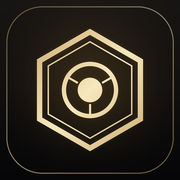
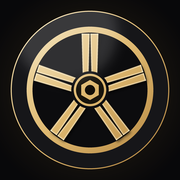
Widok 360° auta z kropkami (klatki z wideo), panel elementu, nowa ikona (felga)
Claude-Session: https://claude.ai/code/session_0152NjmYxNg8rmsFfDkmLGNo

diff --git a/js/spin.js b/js/spin.js
@@ -1,0 +1,121 @@
+// Widok 360°: klatki obrotu auta + kropki przypięte do elementów (interpolowane między klatkami kluczowymi).
+const N = 81;
+const K = (o) => Object.entries(o).map(([k, v]) => [+k, v[0], v[1]]);
+export const SPINS = {
+  'bmw-e53': {
+    dir: 'img/spin/', n: N, ext: 'webp', ratio: 1000 / 563, start: 12,
+    dots: [
+      { id: 'dfL', zone: 'door_front', k: K({ 0: [.73, .39], 4: [.72, .40], 8: [.69, .40], 12: [.65, .40], 16: [.59, .41], 20: [.52, .41], 24: [.43, .41], 28: [.36, .41], 32: [.31, .41] }) },
+      { id: 'drL', zone: 'door_rear', k: K({ 0: [.84, .37], 4: [.84, .37], 8: [.84, .38], 12: [.82, .38], 16: [.79, .38], 20: [.73, .385], 24: [.63, .39], 28: [.545, .39], 32: [.43, .395] }) },
+      { id: 'dfR', zone: 'door_front', k: K({ 48: [.64, .40], 52: [.59, .40], 56: [.515, .40], 60: [.445, .40], 64: [.385, .40], 68: [.345, .40], 72: [.32, .395] }) },
+      { id: 'drR', zone: 'door_rear', k: K({ 48: [.51, .39], 52: [.42, .39], 56: [.33, .385], 60: [.27, .38], 64: [.25, .376], 68: [.255, .37], 72: [.275, .37] }) },
+      { id: 'eng', zone: 'engine', k: K({ 52: [.85, .38], 56: [.85, .40], 60: [.78, .36], 64: [.70, .37], 68: [.72, .37], 72: [.60, .365], 76: [.51, .365], 80: [.50, .36], 81: [.38, .40], 85: [.38, .40], 89: [.30, .37], 93: [.25, .38], 97: [.20, .35] }) },
+      { id: 'whL', zone: 'wheels', k: K({ 0: [.52, .67], 4: [.48, .68], 8: [.41, .72], 12: [.32, .73], 16: [.23, .70], 20: [.13, .735], 24: [.12, .68] }) },
+      { id: 'whR', zone: 'wheels', k: K({ 52: [.86, .66], 56: [.86, .68], 60: [.77, .72], 64: [.665, .71], 68: [.555, .71], 72: [.44, .68] }) },
+      { id: 'tail', zone: 'tail', k: K({ 24: [.88, .44], 28: [.84, .42], 32: [.74, .43], 36: [.62, .44], 40: [.46, .44], 44: [.31, .44], 48: [.19, .44], 52: [.10, .43] }) }
+    ]
+  }
+};
+
+// pozycja kropki w klatce f (float, 0..N); null gdy niewidoczna. Zwraca {x,y,a} (a = przezroczystość 0..1)
+function place(dot, f) {
+  for (const off of [0, N]) {
+    const g = f + off, k = dot.k;
+    if (g < k[0][0] || g > k[k.length - 1][0]) continue;
+    let i = 0; while (i < k.length - 2 && g > k[i + 1][0]) i++;
+    const [f0, x0, y0] = k[i], [f1, x1, y1] = k[i + 1], t = f1 === f0 ? 0 : (g - f0) / (f1 - f0);
+    const edge = Math.min(g - k[0][0], k[k.length - 1][0] - g);
+    return { x: x0 + (x1 - x0) * t, y: y0 + (y1 - y0) * t, a: Math.max(0, Math.min(1, edge / 2.5)) };
+  }
+  return null;
+}
+
+export function spinHtml(spin, labels) {
+  return `<div class="spin" data-n="${spin.n}" tabindex="0" role="application" aria-label="Model 3D: przeciągnij, aby obracać auto">
+    <div class="spin-stage" style="aspect-ratio:${spin.ratio}">
+      <div class="spin-loading"><i></i></div>
+      <img class="spin-img" alt="" draggable="false" src="${spin.dir}f${String(spin.start + 1).padStart(2, '0')}.${spin.ext}">
+      ${spin.dots.map(d => `<button class="spin-dot" data-dot="${d.id}" data-zone="${d.zone}" aria-label="${labels[d.zone] || d.zone}"><i class="r"></i><i class="c"></i></button>`).join('')}
+    </div>
+    <div class="spin-hint"><span class="h1">&#8596; Przeciągnij, aby obrócić</span><span class="h2" hidden></span></div>
+  </div>`;
+}
+
+export function mountSpin(root, spin, { onZone, labels }) {
+  const stage = root.querySelector('.spin-stage'), img = root.querySelector('.spin-img');
+  const hint = root.querySelector('.spin-hint .h2'), hint1 = root.querySelector('.spin-hint .h1');
+  const load = root.querySelector('.spin-loading i');
+  const dots = spin.dots.map(d => ({ d, el: root.querySelector(`[data-dot="${d.id}"]`) }));
+  const frames = new Array(spin.n);
+  const url = i => `${spin.dir}f${String(i + 1).padStart(2, '0')}.${spin.ext}`;
+  let f = spin.start, shown = -1, vel = 0, drag = null, auto = true, raf = 0, loaded = 0, dead = false, t0 = performance.now();
+
+  // ładowanie: najpierw co 4. klatka, potem reszta
+  const order = [...Array(spin.n).keys()].sort((a, b) => (a % 4 ? 1 : 0) - (b % 4 ? 1 : 0) || a - b);
+  let qi = 0;
+  const pump = () => {
+    if (dead || qi >= order.length) return;
+    const i = order[qi++], im = new Image();
+    im.decoding = 'async';
+    im.onload = im.onerror = () => { loaded++; load.style.width = (loaded / spin.n * 100) + '%'; if (loaded >= spin.n) load.parentNode.classList.add('done'); pump(); };
+    im.src = url(i); frames[i] = im;
+  };
+  for (let k = 0; k < 4; k++) pump();
+
+  const draw = () => {
+    const idx = ((Math.round(f) % spin.n) + spin.n) % spin.n;
+    if (idx !== shown) {
+      const im = frames[idx];
+      if (im && im.complete && im.naturalWidth) { img.src = im.src; shown = idx; }
+    }
+    const fm = ((f % spin.n) + spin.n) % spin.n;
+    for (const { d, el } of dots) {
+      const p = place(d, fm);
+      if (!p || p.a <= 0.02) { el.style.opacity = 0; el.style.pointerEvents = 'none'; el.tabIndex = -1; continue; }
+      el.style.left = (p.x * 100) + '%'; el.style.top = (p.y * 100) + '%';
+      el.style.opacity = p.a; el.style.pointerEvents = p.a > .5 ? 'auto' : 'none'; el.tabIndex = 0;
+    }
+  };
+  const tick = now => {
+    if (dead || !root.isConnected) { dead = true; return; }
+    if (!drag) {
+      if (Math.abs(vel) > 0.01) { f += vel; vel *= 0.93; }
+      else if (auto && loaded > 20) { f += 0.06; }
+    }
+    draw(); raf = requestAnimationFrame(tick);
+  };
+  raf = requestAnimationFrame(tick);
+
+  const stop = () => { auto = false; hint1.hidden = true; };
+  stage.addEventListener('pointerdown', e => {
+    if (e.button > 0) return;
+    drag = { x: e.clientX, f0: f, moved: false, id: e.pointerId, last: e.clientX, lt: performance.now() };
+  });
+  stage.addEventListener('pointermove', e => {
+    if (!drag) return;
+    const dx = e.clientX - drag.x;
+    if (!drag.moved && Math.abs(dx) > 6) { drag.moved = true; stage.setPointerCapture(e.pointerId); stop(); stage.classList.add('grab'); }
+    if (drag.moved) {
+      const per = stage.clientWidth / (spin.n * 0.62);
+      const nf = drag.f0 - dx / per;
+      const now = performance.now();
+      vel = (nf - f) / Math.max(1, (now - drag.lt) / 16) ; drag.lt = now;
+      f = nf;
+    }
+  });
+  const end = () => { if (!drag) return; if (!drag.moved) vel = 0; drag = null; stage.classList.remove('grab'); };
+  stage.addEventListener('pointerup', end); stage.addEventListener('pointercancel', end);
+  root.addEventListener('keydown', e => {
+    if (e.key === 'ArrowLeft') { stop(); vel = -0.8; } else if (e.key === 'ArrowRight') { stop(); vel = 0.8; }
+  });
+  stage.addEventListener('click', e => {
+    const b = e.target.closest('.spin-dot');
+    if (!b || (drag && drag.moved)) return;
+    stop(); vel = 0;
+    stage.querySelectorAll('.spin-dot').forEach(x => x.classList.toggle('on', x === b));
+    hint.hidden = false; hint.textContent = labels[b.dataset.zone] || '';
+    onZone(b.dataset.zone, b);
+  });
+  stage.addEventListener('dragstart', e => e.preventDefault());
+  return { destroy() { dead = true; cancelAnimationFrame(raf); }, clear() { stage.querySelectorAll('.spin-dot.on').forEach(x => x.classList.remove('on')); hint.hidden = true; } };
+}

diff --git a/js/main.js b/js/main.js
@@ -2,6 +2,7 @@ import { icon } from './icons.js';
 import * as S from './store.js';
 import { getPack, getRepair, matchPack } from './data.js';
 import { carSVG, ZONES, PHOTOS } from './art-car.js';
+import { SPINS, spinHtml, mountSpin } from './spin.js';
 import { doorSVG, ANCHORS, VIEW_LABELS, viewOf } from './art-door.js';
 import { CATALOG, FUELS } from './catalog.js';
 
@@ -151,6 +152,7 @@ async function garage() {
 }
 
 /* ---------- AUTO ---------- */
+const zoneLabels = Object.fromEntries(Object.entries(ZONES).map(([k, z]) => [k, z.label]));
 async function carScreen(id) {
   const car = S.car(id);
   if (!car) { location.hash = '#/'; return { html: '' }; }
@@ -172,9 +174,10 @@ async function carScreen(id) {
       ${topbar({ back: '#/', title: carName(car), sub: carSub(car), right: `<button class="iconbtn ${car.fav ? 'on' : ''}" id="fav" aria-label="Ulubione">${icon(car.fav ? 'starFill' : 'star', 20)}</button><button class="iconbtn" id="edit" aria-label="Edytuj">${icon('more', 20)}</button>` })}
       <div class="wrap car-wrap">
         <div class="card hero-card glow">
-          ${carSVG({ pins: pack ? ['door_front', 'door_rear'] : [], photo: PHOTOS[pack && pack.id] || '' })}
-          <div class="caption" id="cap">${pack ? `${icon('spark', 16)} Dotknij drzwi, aby zobaczyć poradniki` : `${icon('clock', 16)} Dla tego auta nie ma jeszcze opracowania`}</div>
+          ${SPINS[pack && pack.id] ? spinHtml(SPINS[pack.id], zoneLabels) : carSVG({ pins: pack ? ['door_front', 'door_rear'] : [], photo: PHOTOS[pack && pack.id] || '' })}
+          <div class="caption" id="cap">${pack ? `${icon('spark', 16)} ${SPINS[pack.id] ? 'Obracaj auto palcem, dotknij kropki' : 'Dotknij drzwi, aby zobaczyć poradniki'}` : `${icon('clock', 16)} Dla tego auta nie ma jeszcze opracowania`}</div>
         </div>
+        <div class="zonepanel" id="zonepanel" hidden></div>
         <div class="car-side">
         ${pack ? `<div class="chips" style="padding:0 4px"><span class="chip ok">${icon('check', 13)} ${esc(pack.title)} · ${esc(pack.status)}</span><span class="chip">${ready.length} z ${pack.systems.length} układów</span></div>` : `
         <div class="matchbox no">
@@ -199,7 +202,28 @@ async function carScreen(id) {
       $('#edit', el).onclick = () => editCar(car);
       const reqBtn = $('#req', el); if (reqBtn) reqBtn.onclick = () => openRequest(car);
       const cap = $('#cap', el);
-      $$('[data-zone]', el).forEach(z => {
+      const spinEl = $('.spin', el);
+      if (spinEl && pack && SPINS[pack.id]) {
+        const zp = $('#zonepanel', el);
+        const sp = mountSpin(spinEl, SPINS[pack.id], { labels: zoneLabels, onZone: (zid) => {
+          const Z = ZONES[zid];
+          if (Z.system === 'doors') {
+            const reps = pack.repairs.filter(r => r.door === Z.door || r.door === 'both');
+            zp.innerHTML = `<div class="zp-h"><b>${esc(Z.label)}</b><button class="iconbtn" data-zx aria-label="Zamknij">${icon('x', 18)}</button></div>
+              <div class="zp-l">${reps.map(r => `<a class="zp-i" href="#/car/${id}/r/${r.id}"><span class="zi">${icon(r.icon || 'wrench', 18)}</span><span><b>${esc(r.title)}</b><small>${esc(r.subtitle || '')}</small></span>${icon('chevron', 16)}</a>`).join('')}</div>
+              <a class="btn small" href="#/car/${id}/sys/doors?door=${Z.door}">${icon('door', 16)} Schemat i zdjęcia drzwi</a>`;
+          } else {
+            zp.innerHTML = `<div class="zp-h"><b>${esc(Z.label)}</b><button class="iconbtn" data-zx aria-label="Zamknij">${icon('x', 18)}</button></div>
+              <p class="zp-n">Ten układ nie jest jeszcze opracowany. Opracowania powstają po jednym, w pełnej jakości.</p>
+              <button class="btn small primary" data-zreq>${icon('wrench', 16)} Zamów opracowanie</button>`;
+            const rq = $('[data-zreq]', zp); if (rq) rq.onclick = () => openRequest(car, Z.label);
+          }
+          zp.hidden = false;
+          $('[data-zx]', zp).onclick = () => { zp.hidden = true; sp.clear(); };
+          zp.scrollIntoView({ block: 'nearest', behavior: 'smooth' });
+        } });
+      }
+      $$('svg [data-zone]', el).forEach(z => {
         z.addEventListener('mouseenter', () => { cap.innerHTML = `<b>${z.dataset.label}</b>`; });
         z.addEventListener('click', () => {
           const Z = ZONES[z.dataset.zone];

diff --git a/css/app.css b/css/app.css
@@ -587,3 +587,30 @@ body.no-tabs #toast { bottom: calc(var(--sab) + 28px); }
 .ftxt small { font-size: 12.5px; color: var(--muted); line-height: 1.4; }
 .ftxt em { font-style: normal; font-size: 11.5px; color: var(--faint); }
 @media (max-width: 420px) { .films { grid-template-columns: 1fr; } }
+
+/* widok 360° */
+.spin { position: relative; user-select: none; -webkit-user-select: none; }
+.spin-stage { position: relative; width: 100%; overflow: hidden; border-radius: 18px; touch-action: pan-y; cursor: grab; background: radial-gradient(ellipse at 50% 60%, #4a4b50 0%, #232427 55%, #0c0c0e 100%); }
+.spin-stage.grab { cursor: grabbing; }
+.spin-img { position: absolute; inset: 0; width: 100%; height: 100%; object-fit: cover; pointer-events: none; -webkit-mask-image: radial-gradient(ellipse 70% 82% at 50% 54%, #000 52%, transparent 100%); mask-image: radial-gradient(ellipse 70% 82% at 50% 54%, #000 52%, transparent 100%); }
+.spin-loading { position: absolute; left: 20%; right: 20%; bottom: 8px; height: 3px; border-radius: 2px; background: rgba(255,255,255,.12); z-index: 2; transition: opacity .6s; }
+.spin-loading i { display: block; height: 100%; width: 0; border-radius: 2px; background: var(--accent); }
+.spin-loading.done { opacity: 0; }
+.spin-dot { position: absolute; width: 44px; height: 44px; margin: -22px 0 0 -22px; padding: 0; border: 0; background: none; cursor: pointer; display: grid; place-items: center; transition: opacity .18s; -webkit-tap-highlight-color: transparent; }
+.spin-dot .c { width: 15px; height: 15px; border-radius: 50%; background: radial-gradient(circle at 35% 30%, #f6e3b4, var(--accent2)); border: 2px solid #1a1408; box-shadow: 0 0 0 1px rgba(255,255,255,.55), 0 2px 8px rgba(0,0,0,.55); }
+.spin-dot .r { position: absolute; width: 30px; height: 30px; border-radius: 50%; border: 1.5px solid var(--accent); opacity: .7; animation: spinring 2.2s ease-out infinite; }
+.spin-dot.on .c { background: #fff; box-shadow: 0 0 0 3px var(--accent), 0 2px 10px rgba(0,0,0,.6); }
+@keyframes spinring { from { transform: scale(.55); opacity: .85; } to { transform: scale(1.5); opacity: 0; } }
+.spin-hint { display: flex; justify-content: center; padding: 10px 0 2px; font-size: 13px; color: var(--muted); letter-spacing: .02em; }
+.spin-hint .h2 { color: var(--accent); font-weight: 600; }
+.zonepanel { margin: 12px 0 0; padding: 14px; border-radius: 18px; background: var(--surface); border: 1px solid var(--line2); display: grid; gap: 10px; animation: zpin .22s ease-out; }
+.zonepanel[hidden] { display: none; }
+@keyframes zpin { from { opacity: 0; transform: translateY(8px); } to { opacity: 1; transform: none; } }
+.zp-h { display: flex; justify-content: space-between; align-items: center; font: 600 19px/1.2 var(--serif, ui-serif, Georgia, serif); }
+.zp-l { display: grid; gap: 8px; }
+.zp-i { display: grid; grid-template-columns: 38px 1fr 18px; gap: 12px; align-items: center; padding: 10px 12px; border-radius: 14px; background: var(--surface2); border: 1px solid var(--line2); color: inherit; text-decoration: none; }
+.zp-i:hover { border-color: var(--accent); }
+.zp-i .zi { width: 38px; height: 38px; border-radius: 11px; display: grid; place-items: center; color: var(--accent); background: rgba(217,184,120,.1); }
+.zp-i b { display: block; font-size: 14.5px; } .zp-i small { color: var(--muted); font-size: 12.5px; }
+.zp-n { margin: 0; color: var(--muted); font-size: 14px; }
+@media (prefers-reduced-motion: reduce) { .spin-dot .r { animation: none; } .zonepanel { animation: none; } }

diff --git a/sw.js b/sw.js
@@ -1,7 +1,7 @@
 // Service worker: aplikacja działa offline po pierwszym wejściu.
 // Lista plików i wersja są aktualizowane przez tools/build.py (nie edytuj ręcznie między znacznikami).
-const VERSION = 'warsztat-/*V*/f9a6db9656/*ENDV*/';
-const FILES = /*FILES*/["./", "css/app.css", "data/packs/bmw-e53/pack.json", "data/packs/bmw-e53/repairs/klamka-wewn.json", "data/packs/bmw-e53/repairs/klamka-zewn-przod.json", "data/packs/bmw-e53/repairs/klamka-zewn-tyl.json", "data/packs/bmw-e53/repairs/silownik-zamka-przod.json", "data/packs/bmw-e53/repairs/tapicerka-przod.json", "data/packs/bmw-e53/repairs/tapicerka-tyl.json", "data/packs.json", "icons/apple-touch-icon.png", "icons/icon-192.png", "icons/icon-512.png", "icons/icon-maskable-512.png", "img/x5-e53.webp", "index.html", "js/art-car.js", "js/art-door.js", "js/catalog.js", "js/data.js", "js/icons.js", "js/main.js", "js/store.js", "manifest.webmanifest"]/*ENDFILES*/;
+const VERSION = 'warsztat-/*V*/36e28e587d/*ENDV*/';
+const FILES = /*FILES*/["./", "css/app.css", "data/packs/bmw-e53/pack.json", "data/packs/bmw-e53/repairs/klamka-wewn.json", "data/packs/bmw-e53/repairs/klamka-zewn-przod.json", "data/packs/bmw-e53/repairs/klamka-zewn-tyl.json", "data/packs/bmw-e53/repairs/silownik-zamka-przod.json", "data/packs/bmw-e53/repairs/tapicerka-przod.json", "data/packs/bmw-e53/repairs/tapicerka-tyl.json", "data/packs.json", "icons/apple-touch-icon.png", "icons/icon-192.png", "icons/icon-512.png", "icons/icon-maskable-512.png", "img/x5-e53.webp", "index.html", "js/art-car.js", "js/art-door.js", "js/catalog.js", "js/data.js", "js/icons.js", "js/main.js", "js/spin.js", "js/store.js", "manifest.webmanifest"]/*ENDFILES*/;
 
 self.addEventListener('install', e => {
   e.waitUntil(caches.open(VERSION).then(c => Promise.all(FILES.map(f => fetch(new Request(f, { cache: 'reload' })).then(r => { if (!r.ok) throw new Error(f); return c.put(f, r); })))).then(() => self.skipWaiting()));

diff --git a/js/icons.js b/js/icons.js
@@ -32,6 +32,7 @@ const P = {
   eye: '<path d="M2.5 12S6 5.5 12 5.5 21.5 12 21.5 12 18 18.5 12 18.5 2.5 12 2.5 12z"/><circle cx="12" cy="12" r="2.8"/>',
   download: '<path d="M12 4v11M7.5 11 12 15.5 16.5 11M5 19.5h14"/>',
   upload: '<path d="M12 16V5M7.5 9 12 4.5 16.5 9M5 19.5h14"/>',
+  x: '<path d="M6 6l12 12M18 6 6 18"/>',
   spark: '<path d="M12 3v4M12 17v4M3 12h4M17 12h4M6 6l2.5 2.5M15.5 15.5 18 18M6 18l2.5-2.5M15.5 8.5 18 6"/>'
 };
 

diff --git a/tools/make_icons.py b/tools/make_icons.py
@@ -1,76 +1,93 @@
 #!/usr/bin/env python3
-"""Generuje ikony aplikacji (PNG) w icons/. Wymaga Pillow."""
+"""Ikona aplikacji: felga aluminiowa z 5 podwójnymi ramionami i nakrętką-piastą (złoto na czerni). Wymaga Pillow."""
 import math
 from pathlib import Path
-from PIL import Image, ImageDraw, ImageFilter
+from PIL import Image, ImageDraw, ImageFilter, ImageChops
 
 OUT = Path(__file__).resolve().parent.parent / 'icons'
 OUT.mkdir(exist_ok=True)
-S = 2048  # rysujemy dużo większe i zmniejszamy
+S = 2048
 
 def lerp(a, b, t): return tuple(int(a[i] + (b[i] - a[i]) * t) for i in range(3))
 
-def hexagon(cx, cy, r, rot=0):
-    return [(cx + r * math.cos(math.radians(60 * i + rot)), cy + r * math.sin(math.radians(60 * i + rot))) for i in range(6)]
-
-def gold_gradient(size, c0=(247, 232, 190), c1=(176, 128, 58)):
-    g = Image.new('RGB', (size, size))
-    d = ImageDraw.Draw(g)
+def gold(size, c0=(250, 238, 200), c1=(168, 120, 52), mid=(222, 184, 112)):
+    g = Image.new('RGB', (size, size)); d = ImageDraw.Draw(g)
     for i in range(size * 2):
         t = i / (size * 2)
-        t = 1 - abs(2 * t - 1) * .9  # połysk w środku przekątnej
-        d.line([(i, 0), (0, i)], fill=lerp(c1, c0, t), width=2)
+        col = lerp(c0, mid, t * 2) if t < .5 else lerp(mid, c1, (t - .5) * 2)
+        d.line([(i, 0), (0, i)], fill=col, width=2)
     return g
 
-def ring_mask(draw_fn):
-    m = Image.new('L', (S, S), 0)
-    draw_fn(ImageDraw.Draw(m))
-    return m
+def mask(fn):
+    m = Image.new('L', (S, S), 0); fn(ImageDraw.Draw(m)); return m
+
+def spoke_poly(cx, cy, ang, r0, r1, w0, w1, off):
+    """Jedno ramię: trapez od piasty (r0) do obręczy (r1), przesunięte bocznie o off."""
+    a = math.radians(ang); ux, uy = math.cos(a), math.sin(a); nx, ny = -uy, ux
+    def P(r, w): return (cx + ux * r + nx * (off + w), cy + uy * r + ny * (off + w))
+    return [P(r0, -w0), P(r1, -w1), P(r1, w1), P(r0, w0)]
 
 def draw(maskable=False):
-    img = Image.new('RGB', (S, S), (8, 8, 10))
-    d = ImageDraw.Draw(img)
-    top, bot = (24, 22, 20), (6, 6, 8)
-    for y in range(S):
-        d.line([(0, y), (S, y)], fill=lerp(top, bot, y / S))
-    glow = Image.new('L', (S, S), 0)
-    ImageDraw.Draw(glow).ellipse([S * .2, S * .16, S * .8, S * .76], fill=255)
-    glow = glow.filter(ImageFilter.GaussianBlur(S * .14))
-    warm = Image.new('RGB', (S, S), (120, 88, 40))
-    img = Image.composite(Image.blend(img, warm, .38), img, glow)
-
-    k = .74 if maskable else .9
+    bg = Image.new('RGB', (S, S), (8, 8, 10)); bd = ImageDraw.Draw(bg)
+    for i in range(60):  # ciepła poświata
+        r = int(S * .62 * (1 - i / 60)); c = lerp((8, 8, 10), (46, 36, 20), i / 60)
+        bd.ellipse([S / 2 - r, S / 2 - r, S / 2 + r, S / 2 + r], fill=c)
     cx = cy = S / 2
-    R = S * .34 * k / .9
-    gold = gold_gradient(S)
-
-    def nut(dr):
-        dr.polygon(hexagon(cx, cy, R, 30), outline=255, width=int(S * .03))
-        dr.polygon(hexagon(cx, cy, R * .8, 30), outline=255, width=int(S * .008))
-        r1 = R * .46
-        dr.ellipse([cx - r1, cy - r1, cx + r1, cy + r1], outline=255, width=int(S * .024))
-        r2 = R * .2
-        dr.ellipse([cx - r2, cy - r2, cx + r2, cy + r2], fill=255)
-        for a in (90, 210, 330):
-            x1, y1 = cx + r1 * .5 * math.cos(math.radians(a)), cy + r1 * .5 * math.sin(math.radians(a))
-            x2, y2 = cx + r1 * .92 * math.cos(math.radians(a)), cy + r1 * .92 * math.sin(math.radians(a))
-            dr.line([(x1, y1), (x2, y2)], fill=255, width=int(S * .012))
-    m = ring_mask(nut)
-    # miękka poświata pod złotem
-    halo = Image.composite(Image.new('RGB', (S, S), (217, 170, 90)), Image.new('RGB', (S, S), (0, 0, 0)), m).filter(ImageFilter.GaussianBlur(S * .02))
-    img = Image.blend(img, Image.composite(halo, img, halo.convert('L')), .5)
-    img.paste(gold, (0, 0), m)
-    # cienka rama premium
-    if not maskable:
-        fm = ring_mask(lambda dr: dr.rounded_rectangle([S * .035, S * .035, S * .965, S * .965], radius=S * .2, outline=255, width=int(S * .006)))
-        img.paste(Image.blend(Image.new('RGB', (S, S), (8, 8, 10)), gold, .55), (0, 0), fm)
-    return img
+    k = .70 if maskable else .88  # skala (maskable ma większy margines)
+    R = S * .5 * k
+    G = gold(S)
+    # opona
+    tire = mask(lambda d: d.ellipse([cx - R, cy - R, cx + R, cy + R], fill=255))
+    bg.paste((22, 22, 25), mask=tire)
+    ring = mask(lambda d: (d.ellipse([cx - R, cy - R, cx + R, cy + R], outline=255, width=int(S * .006))))
+    bg.paste(G, mask=ring)
+    # obręcz felgi
+    Rr = R * .80; rw = R * .075
+    rim = mask(lambda d: (d.ellipse([cx - Rr, cy - Rr, cx + Rr, cy + Rr], fill=255), d.ellipse([cx - Rr + rw, cy - Rr + rw, cx + Rr - rw, cy + Rr - rw], fill=0)))
+    bg.paste(G, mask=rim)
+    # tarcza w głębi felgi
+    inner = Rr - rw
+    disc = mask(lambda d: d.ellipse([cx - inner, cy - inner, cx + inner, cy + inner], fill=255))
+    bg.paste((12, 12, 14), mask=disc)
+    # zacisk hamulcowy (łuk) z tyłu
+    cal = mask(lambda d: d.pieslice([cx - inner * .86, cy - inner * .86, cx + inner * .86, cy + inner * .86], -28, 32, fill=255))
+    cal = ImageChops.subtract(cal, mask(lambda d: d.ellipse([cx - inner * .58, cy - inner * .58, cx + inner * .58, cy + inner * .58], fill=255)))
+    # (zacisk pominięty dla czystszego wyglądu)
+    # 5 podwójnych ramion
+    sp = Image.new('L', (S, S), 0); sd = ImageDraw.Draw(sp)
+    for i in range(5):
+        base = -90 + i * 72
+        for off in (-R * .055, R * .055):
+            sd.polygon(spoke_poly(cx, cy, base, R * .17, inner * .98, R * .035, R * .05, off), fill=255)
+    sp = sp.filter(ImageFilter.GaussianBlur(S * .0015))
+    # cień pod ramionami
+    sh = sp.filter(ImageFilter.GaussianBlur(S * .008)); sh = ImageChops.offset(sh, int(S * .006), int(S * .01))
+    bg.paste((0, 0, 0), mask=sh.point(lambda v: int(v * .7)))
+    bg.paste(G, mask=sp)
+    # krawędź ramion (połysk)
+    edge = ImageChops.subtract(sp, sp.filter(ImageFilter.GaussianBlur(S * .004)).point(lambda v: min(255, int(v * 1.0))))
+    bg.paste((255, 245, 215), mask=edge.point(lambda v: min(255, v * 3)))
+    # piasta + nakrętka
+    hub = R * .205
+    bg.paste((14, 14, 16), mask=mask(lambda d: d.ellipse([cx - hub * 1.15, cy - hub * 1.15, cx + hub * 1.15, cy + hub * 1.15], fill=255)))
+    bg.paste(G, mask=mask(lambda d: d.ellipse([cx - hub, cy - hub, cx + hub, cy + hub], fill=255)))
+    bg.paste((24, 20, 12), mask=mask(lambda d: d.ellipse([cx - hub * .86, cy - hub * .86, cx + hub * .86, cy + hub * .86], fill=255)))
+    hexr = hub * .62
+    hx = [(cx + hexr * math.cos(math.radians(60 * i + 30)), cy + hexr * math.sin(math.radians(60 * i + 30))) for i in range(6)]
+    bg.paste(G, mask=mask(lambda d: d.polygon(hx, fill=255)))
+    hr = hexr * .5
+    bg.paste((18, 14, 8), mask=mask(lambda d: d.ellipse([cx - hr, cy - hr, cx + hr, cy + hr], fill=255)))
+    # połysk
+    gl = Image.new('L', (S, S), 0); gd = ImageDraw.Draw(gl)
+    gd.ellipse([cx - R * .95, cy - R * 1.35, cx + R * .35, cy - R * .1], fill=38)
+    gl = gl.filter(ImageFilter.GaussianBlur(S * .03))
+    gl = ImageChops.multiply(gl, tire)
+    bg.paste((255, 255, 255), mask=gl)
+    return bg
 
 def save(img, name, size):
     img.resize((size, size), Image.LANCZOS).save(OUT / name, optimize=True)
 
-normal = draw(False)
-for n, s in (('icon-192.png', 192), ('icon-512.png', 512), ('apple-touch-icon.png', 180)):
-    save(normal, n, s)
-save(draw(True), 'icon-maskable-512.png', 512)
-print('ikony zapisane w', OUT)
+a = draw(False); m = draw(True)
+save(a, 'icon-512.png', 512); save(a, 'icon-192.png', 192); save(a, 'apple-touch-icon.png', 180); save(m, 'icon-maskable-512.png', 512)
+print('ikony gotowe')

diff --git a/tools/build.py b/tools/build.py
@@ -90,7 +90,7 @@ files = []
 for p in sorted(ROOT.rglob('*')):
     if p.is_dir(): continue
     rel = p.relative_to(ROOT).as_posix()
-    if rel.split('/')[0] in skip_dirs or rel.startswith('.') or rel in ('README.md', 'sw.js') or rel.endswith('.py'): continue
+    if rel.split('/')[0] in skip_dirs or rel.startswith('.') or rel in ('README.md', 'sw.js') or rel.startswith('img/spin/') or rel.startswith('docs/') or rel.endswith('.py'): continue
     files.append(rel)
 digest = hashlib.sha1()
 for rel in files: digest.update(rel.encode()); digest.update((ROOT / rel).read_bytes())
